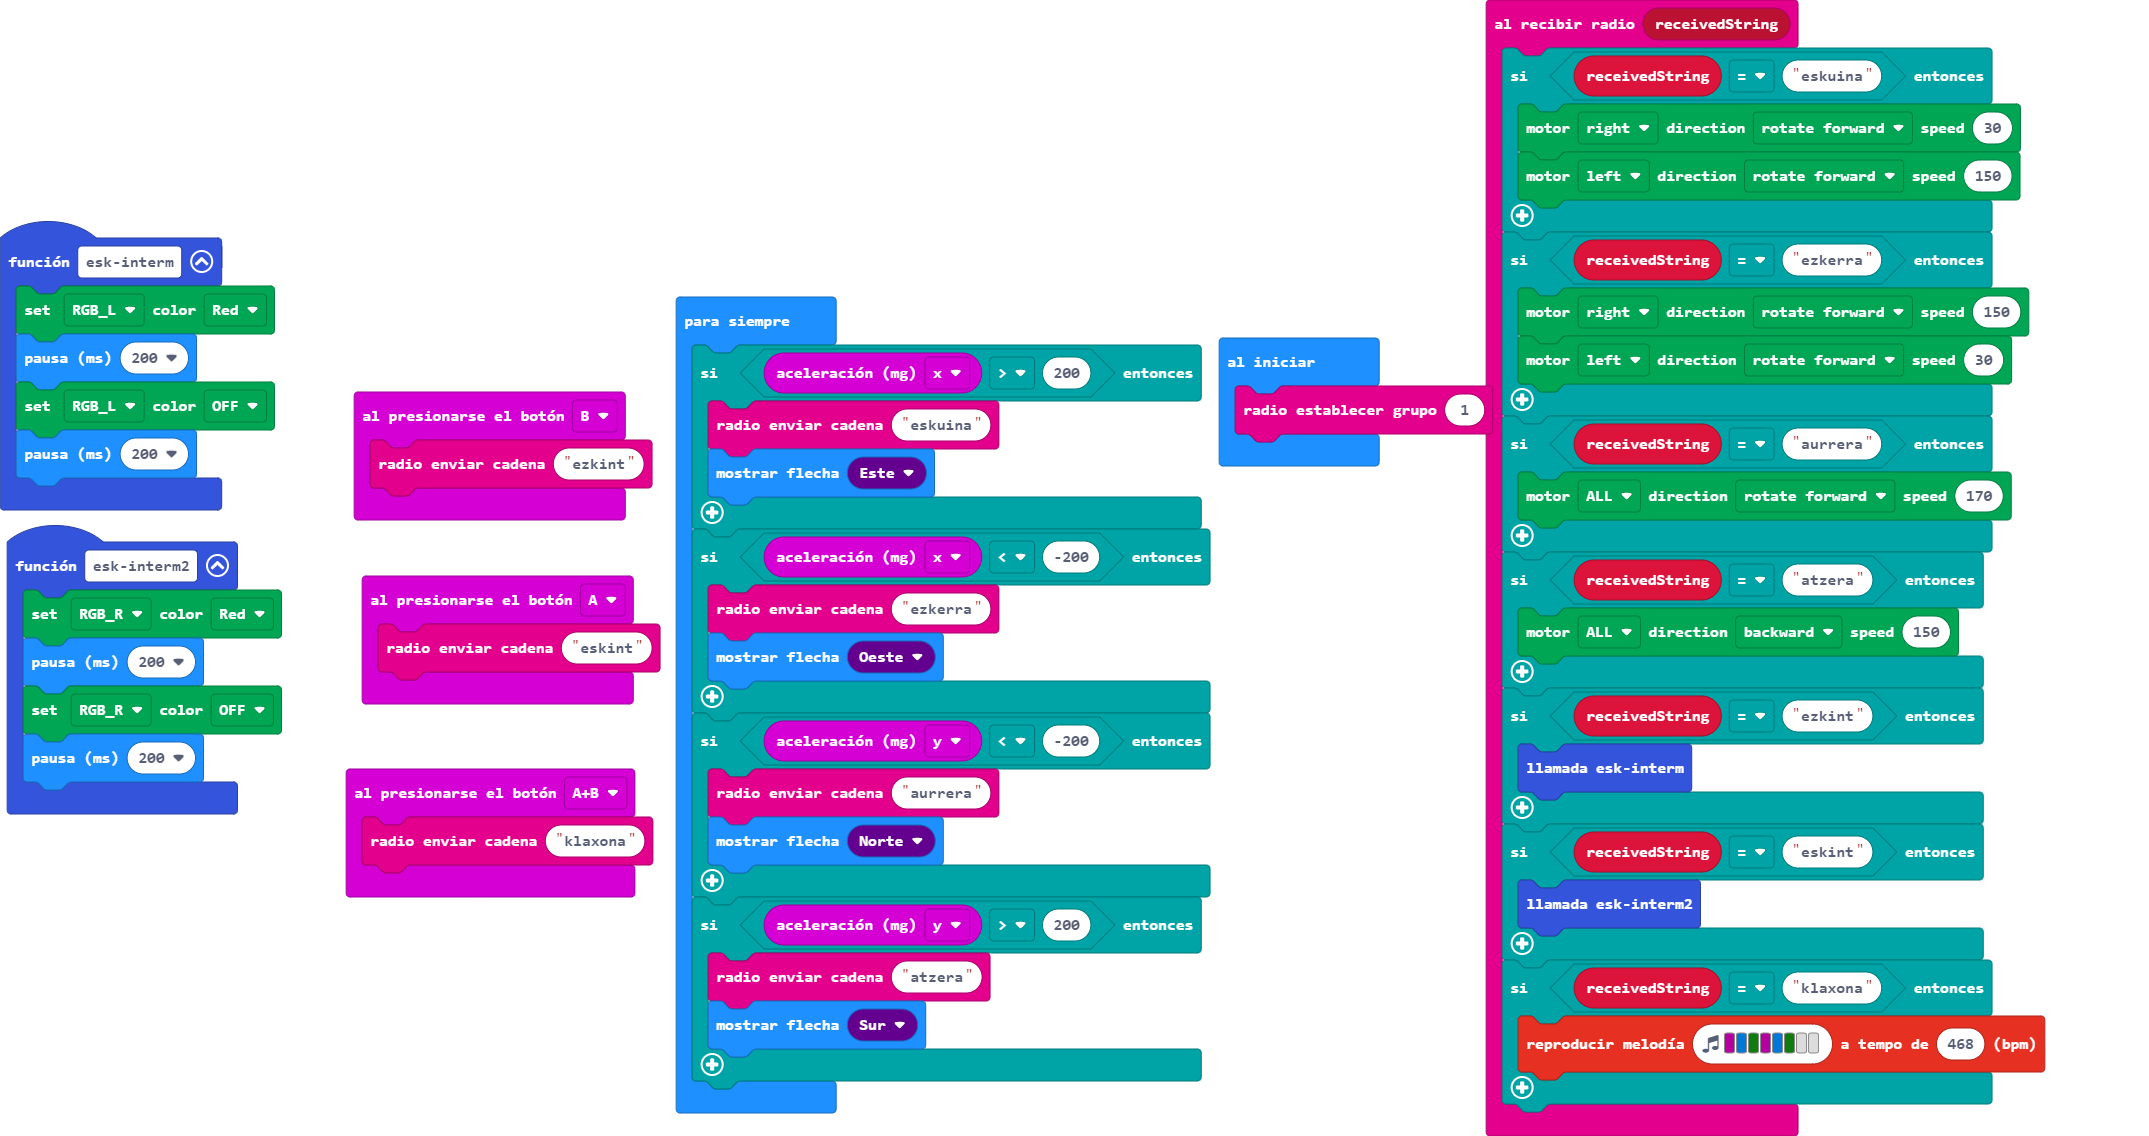
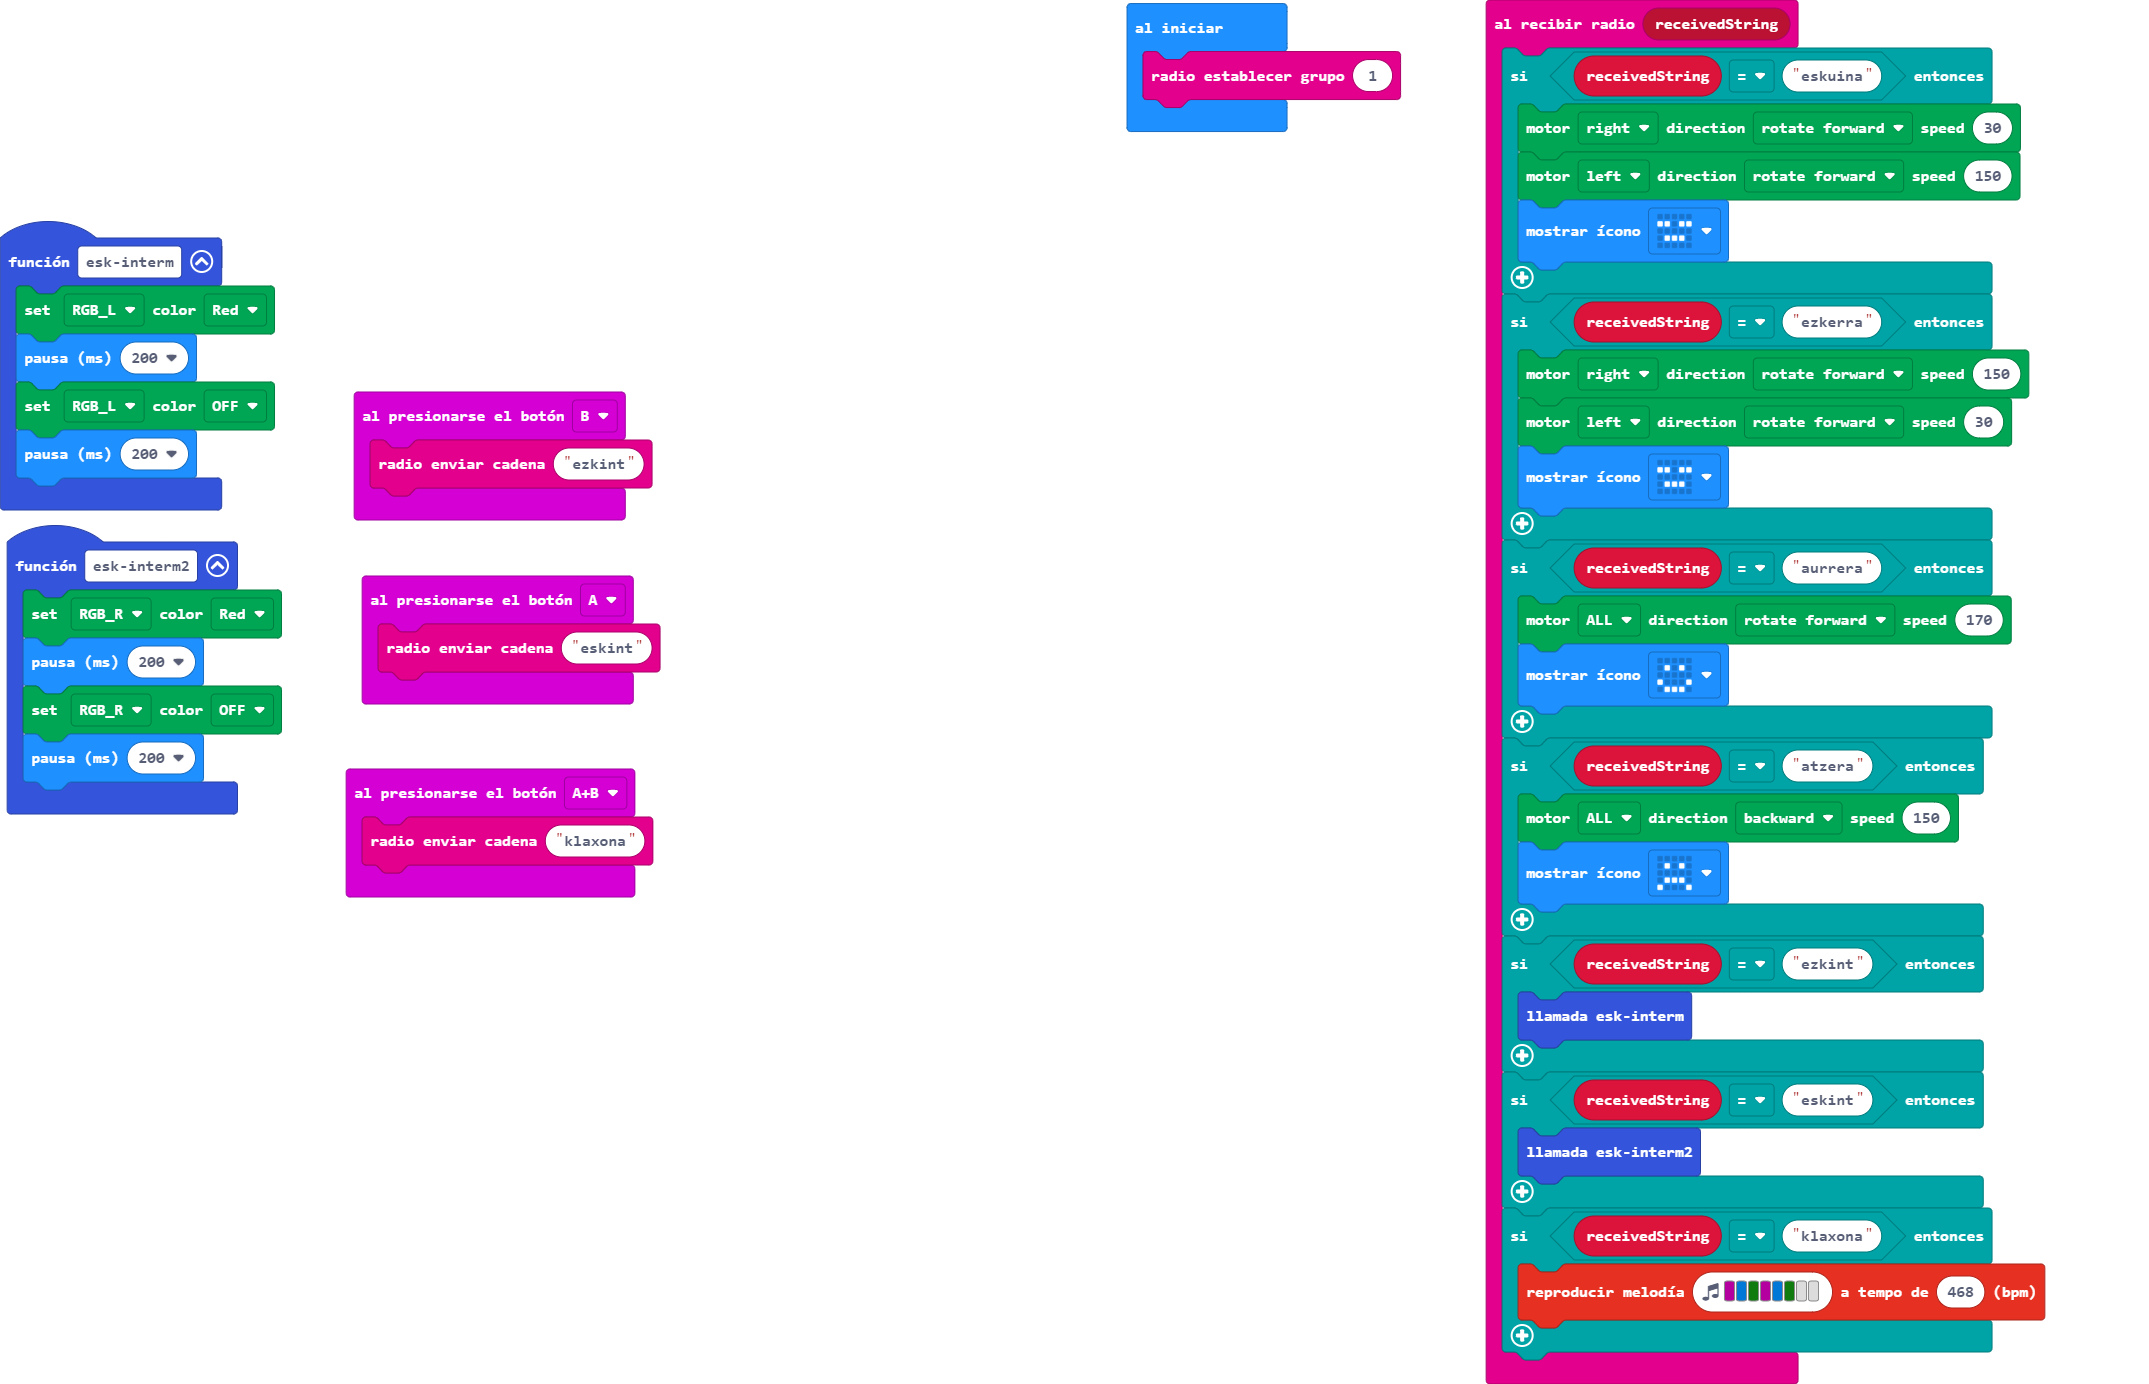
Actualizar pxt.json, main.blocks, main.ts

diff --git a/main.ts b/main.ts
@@ -14,16 +14,20 @@ radio.onReceivedString(function (receivedString) {
     if (receivedString == "eskuina") {
         DFRobotMaqueenPlus.mototRun(Motors.M2, Dir.CW, 30)
         DFRobotMaqueenPlus.mototRun(Motors.M1, Dir.CW, 150)
+        basic.showIcon(IconNames.Asleep)
     }
     if (receivedString == "ezkerra") {
         DFRobotMaqueenPlus.mototRun(Motors.M2, Dir.CW, 150)
         DFRobotMaqueenPlus.mototRun(Motors.M1, Dir.CW, 30)
+        basic.showIcon(IconNames.Asleep)
     }
     if (receivedString == "aurrera") {
         DFRobotMaqueenPlus.mototRun(Motors.ALL, Dir.CW, 170)
+        basic.showIcon(IconNames.Happy)
     }
     if (receivedString == "atzera") {
         DFRobotMaqueenPlus.mototRun(Motors.ALL, Dir.CCW, 150)
+        basic.showIcon(IconNames.Sad)
     }
     if (receivedString == "ezkint") {
         eskinterm()
@@ -45,21 +49,3 @@ function eskinterm () {
     basic.pause(200)
 }
 radio.setGroup(1)
-basic.forever(function () {
-    if (input.acceleration(Dimension.X) > 200) {
-        radio.sendString("eskuina")
-        basic.showArrow(ArrowNames.East)
-    }
-    if (input.acceleration(Dimension.X) < -200) {
-        radio.sendString("ezkerra")
-        basic.showArrow(ArrowNames.West)
-    }
-    if (input.acceleration(Dimension.Y) < -200) {
-        radio.sendString("aurrera")
-        basic.showArrow(ArrowNames.North)
-    }
-    if (input.acceleration(Dimension.Y) > 200) {
-        radio.sendString("atzera")
-        basic.showArrow(ArrowNames.South)
-    }
-})
